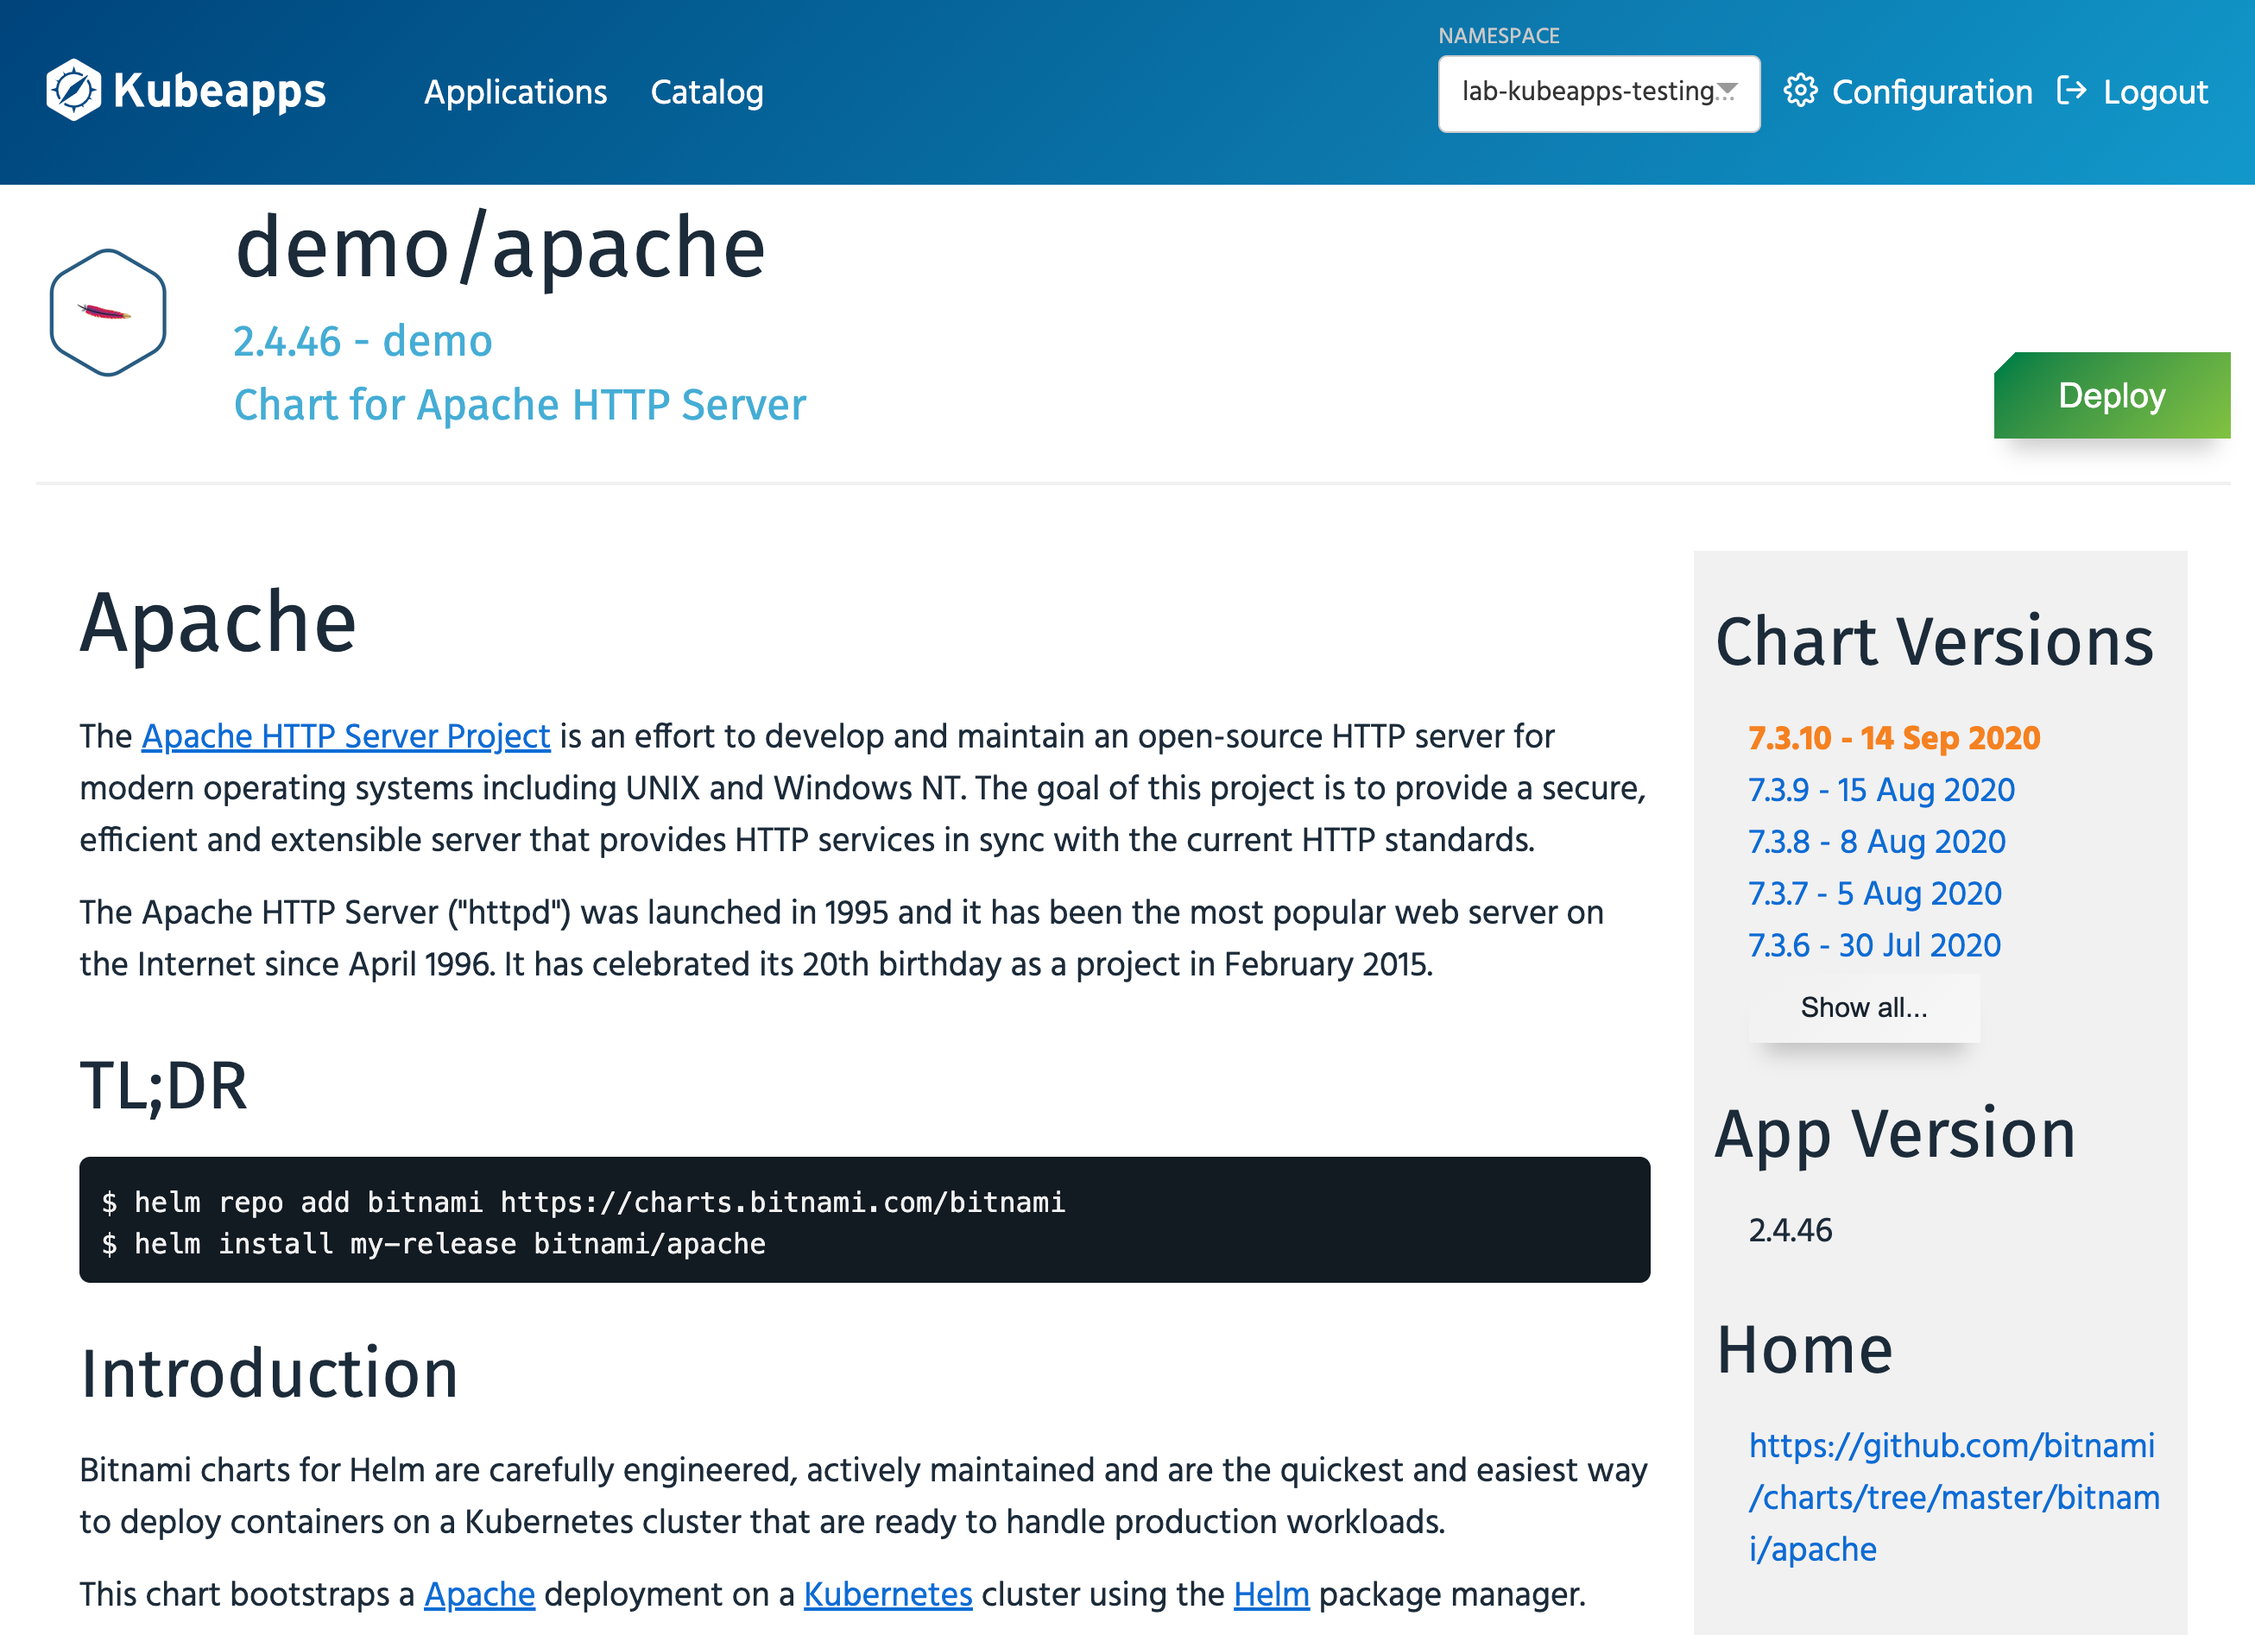
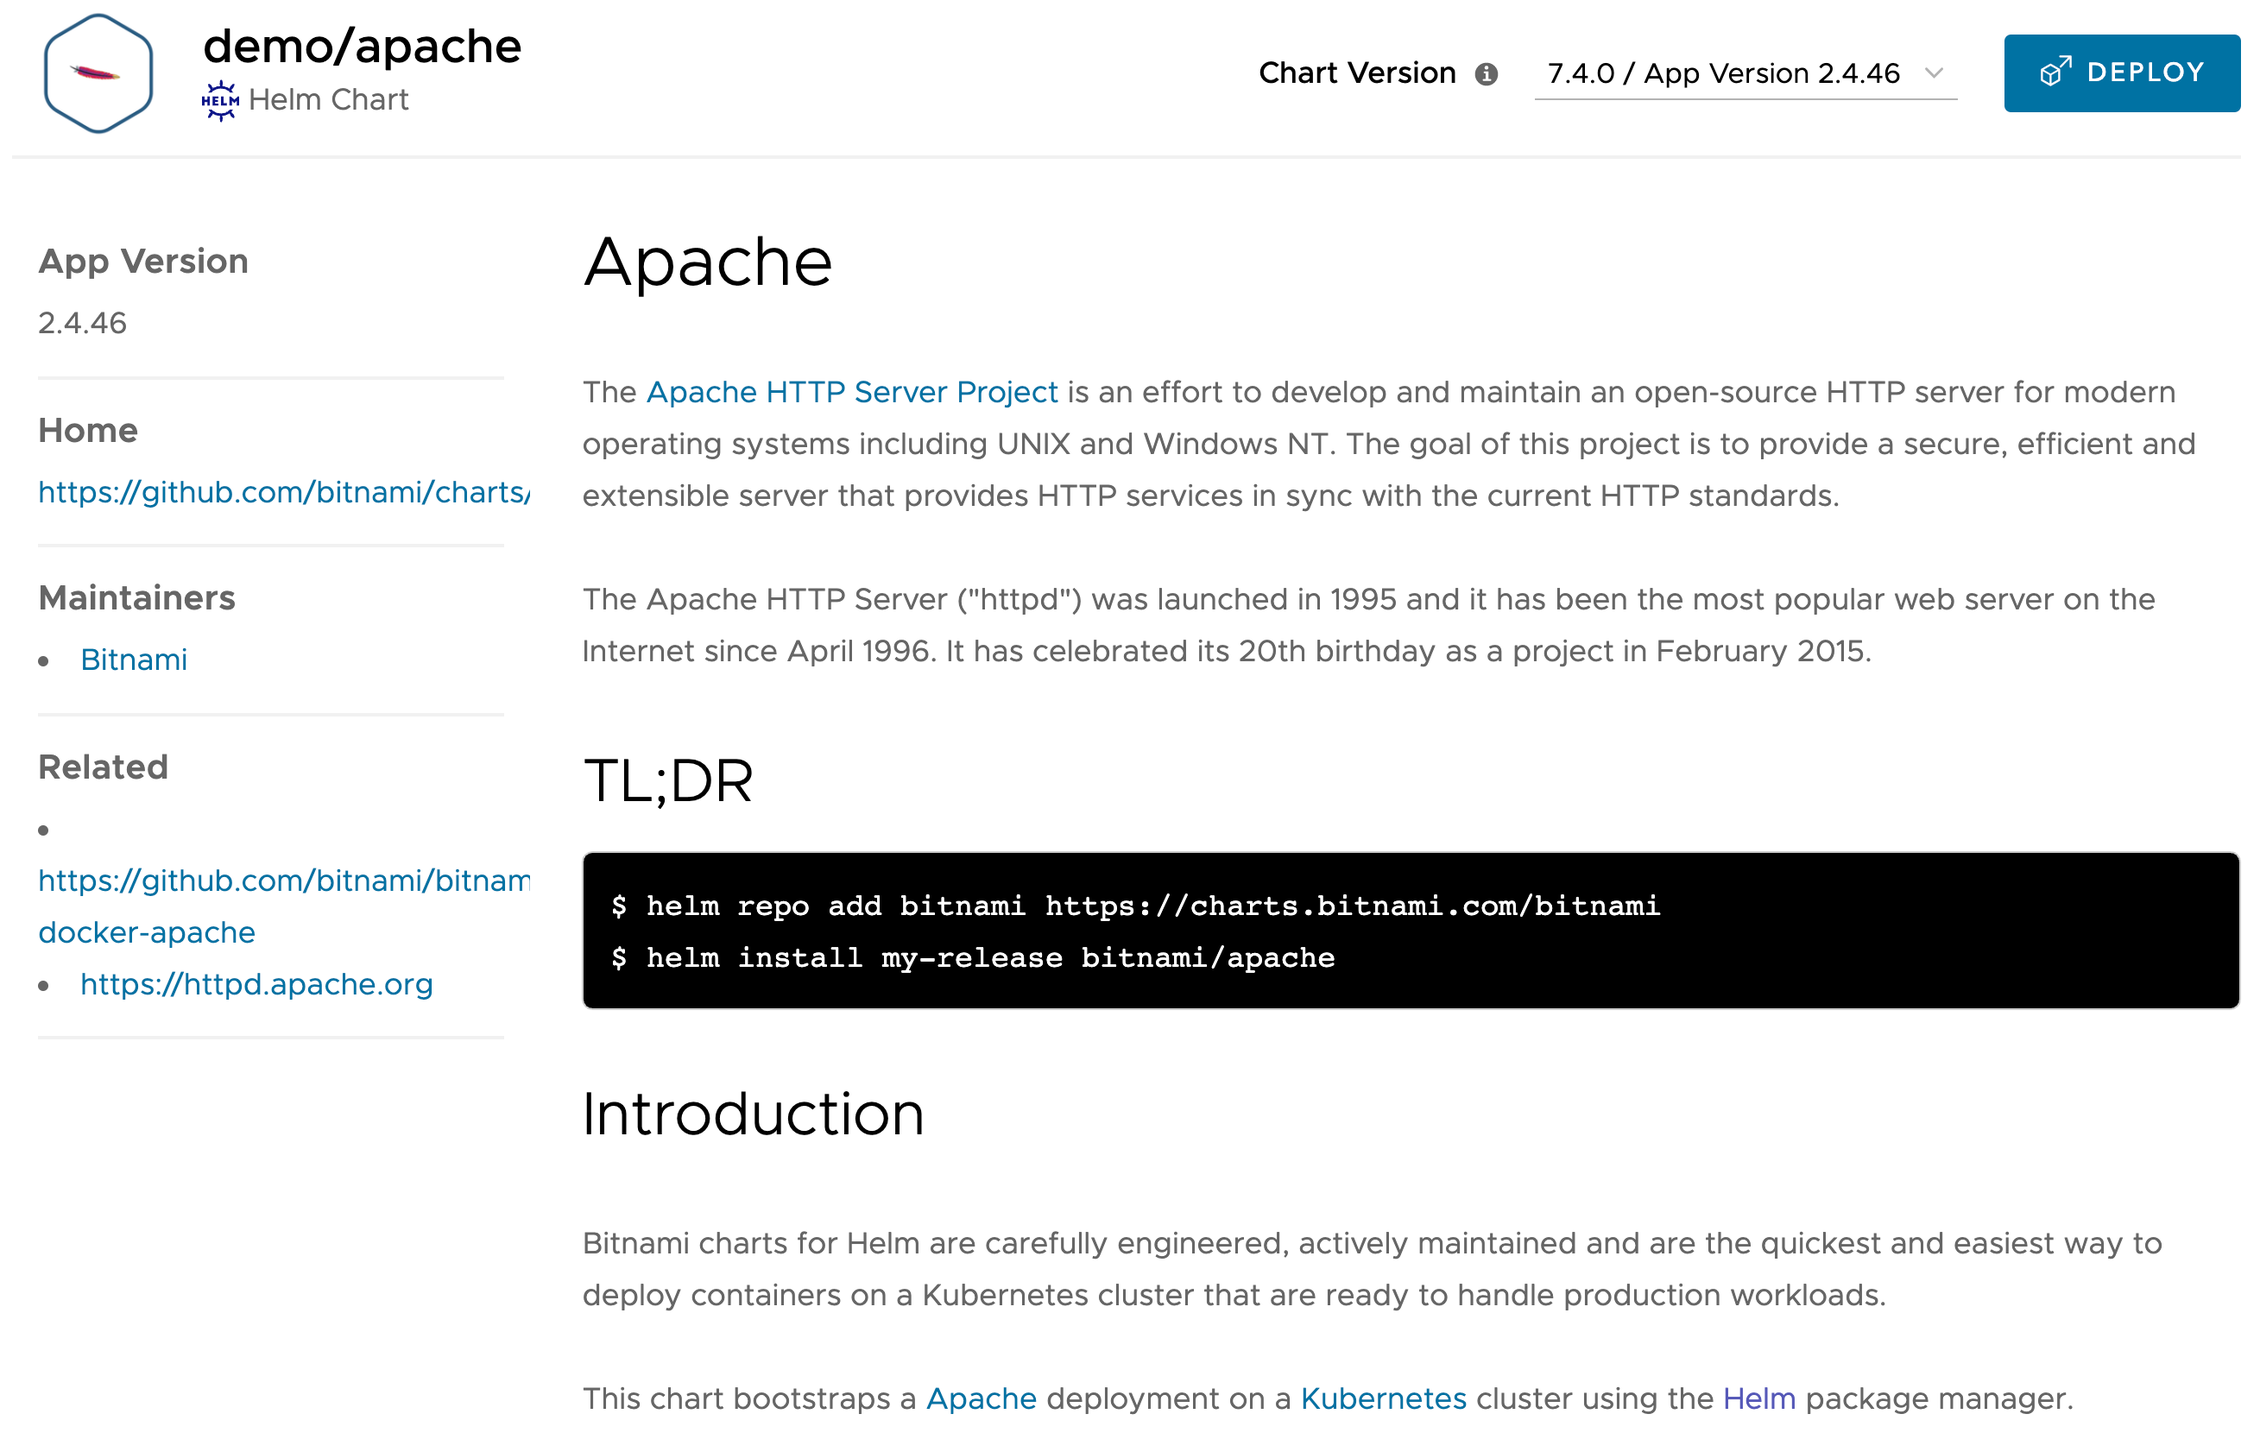
Update images and steps.

diff --git a/workshop/content/exercises/08-deleting-the-application.md b/workshop/content/exercises/08-deleting-the-application.md
@@ -1,6 +1,6 @@
 The deployment of the application can be deleted from the Kubernetes dashboard or from the command line using `kubectl`, but this means you have to know precisely what all the Kubernetes resources that were created were.
 
-The better method therefore is to use Kubeapps to delete the deployment. This will make use of the Helm templates used in the deployment, to ensure that all the resources created are correctly deleted.
+The better method therefore is to use Kubeapps to delete the deployment. This will make use of the Helm templates used in the deployment, to ensure that all the resources created are correctly deleted,
 
 Head back to Kubeapps by clicking on the **Kubeapps** tab.
 
@@ -25,4 +25,6 @@ Click on **Delete** to confirm.
 
 You will be returned to your list of applications (which should now be empty), and the deployment will be deleted in the background.
 
+{% comment %}
 You can select **Show deleted apps** to show deleted applications as a record is kept, and even click through to get a summary of the installation values used in case you need to recreate the deployment in the future.
+{% endcomment %}

diff --git a/workshop/content/setup-environment.md b/workshop/content/setup-environment.md
@@ -1,4 +1,4 @@
-This workshop environment relies on Kubeapps having already been separately installed into the Kubernetes cluster. It relies on Kubeapps having been installed into the `kubeapps` namespace. It is expected that the Kubeapps deployment has the new style web interface enabled.
+This workshop environment relies on Kubeapps having already been separately installed into the Kubernetes cluster. It relies on Kubeapps having been installed into the `kubeapps` namespace and that Kubeapps login has not been integrated with any SSO product.
 
 To test that Kubeapps is installed and available, click on the **Kubeapps** dashboard tab.
 

diff --git a/workshop/content/exercises/06-deploying-an-application.md b/workshop/content/exercises/06-deploying-an-application.md
@@ -30,7 +30,7 @@ In this case you are making use of the ingress domain name used for the workshop
 
 Before triggering deployment of an application, you can review any changes made to the default Helm deployment templates for the application based on options selected for the application through Kubeapps. You can also review the raw YAML for the Helm template.
 
-When ready, click on **Submit** at the bottom of the page to start the deployment.
+When ready, click on **Deploy** at the bottom of the page to start the deployment.
 
 This will bring up details of the deployment, and when deployment is complete, it should show as **Ready**.
 
